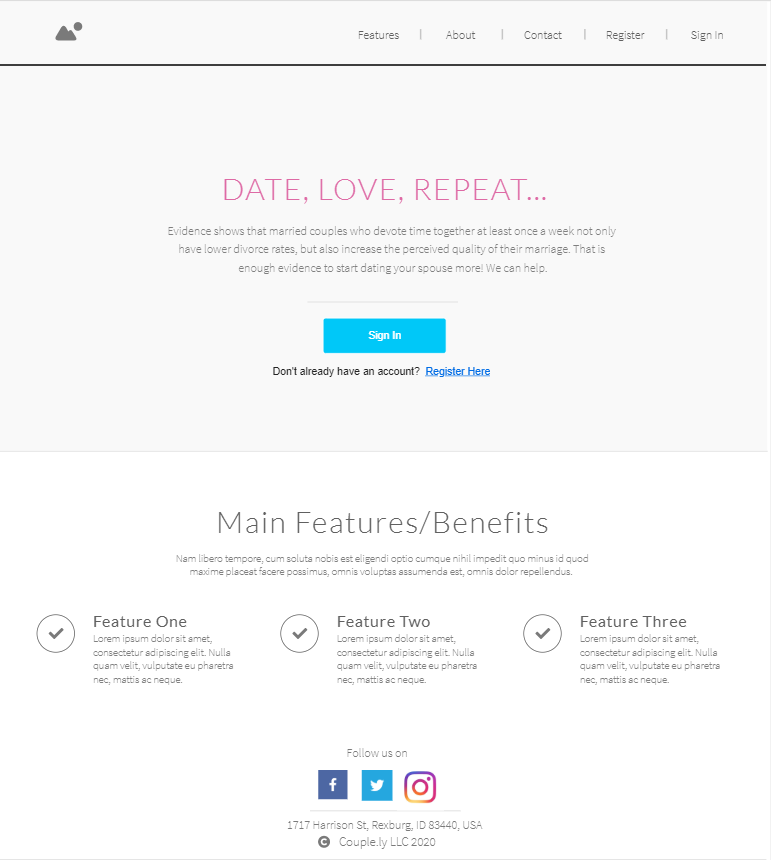
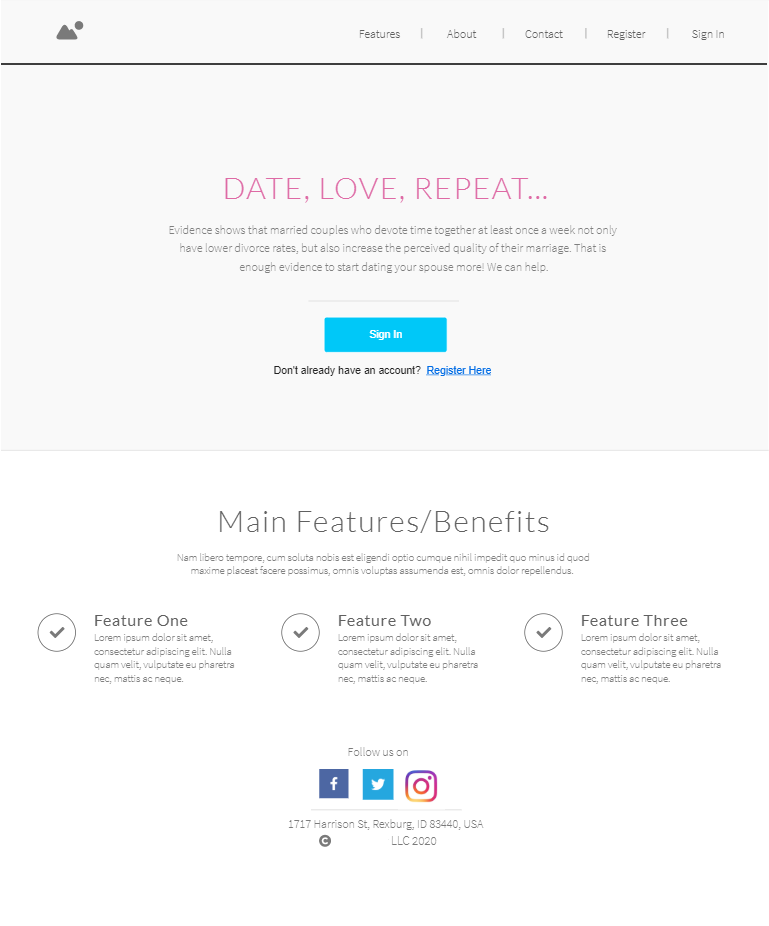
create name changes to website for domain name

diff --git a/README.md b/README.md
@@ -1,9 +1,9 @@
-# Personal Project
+# Personal Project HeartTaken
 ## IDEA and USER:
 
-In today’s world there are many dating applications that help you find that special someone, but what about an app to help strengthen that relationship once it has been established? I have decided to design an application called Couple.ly designed for those looking to strengthen their relationship, geared specifically towards married couples or those individuals dating. The application will give user simple ways to serve and love their significant other.
+In today’s world there are many dating applications that help you find that special someone, but what about an app to help strengthen that relationship once it has been established? I have decided to design an application called HeartTaken designed for those looking to strengthen their relationship, geared specifically towards married couples or those individuals dating. The application will give user simple ways to serve and love their significant other.
 
-This would be a web application that would allow you as the user to sign in and create an account. From here you can pick a category you want to work on for the day. There will be a total of 5 categories (love languages) to choose from where you can get a suggestion of what to do for the day in that category. I would like to add in the functionality of sending push notifications or emails on ideas you can do to serve your significant other for that day in that specific category as well put for now I just want it marked off in the app itself. Once you have completed that task for the day you can mark it off. Throughout the week as you complete Couple.ly goals it will track what areas you have been working on and fill in a wheel meter for you to see your couple progress. You will also be able to look at your history associated with the progress wheel.
+This would be a web application that would allow you as the user to sign in and create an account. From here you can pick a category you want to work on for the day. There will be a total of 5 categories (love languages) to choose from where you can get a suggestion of what to do for the day in that category. I would like to add in the functionality of sending push notifications or emails on ideas you can do to serve your significant other for that day in that specific category as well put for now I just want it marked off in the app itself. Once you have completed that task for the day you can mark it off. Throughout the week as you complete HeartTaken goals it will track what areas you have been working on and fill in a wheel meter for you to see your couple progress. You will also be able to look at your history associated with the progress wheel.
 
 ## Features:
 <img src = "./pictures/RequirementsDocument.png">
@@ -43,7 +43,7 @@ This would be a web application that would allow you as the user to sign in and 
 <img src = "./pictures/Features Page Couplely.png">
 
 ### About.js (View)
-- This component will just show the user about Couple.ly and how it came to be.
+- This component will just show the user more information about the website HeartTaken and how it came to be.
 <img src = "./pictures/About Page Couplely.png">
 
 ### Contact.js (View)
